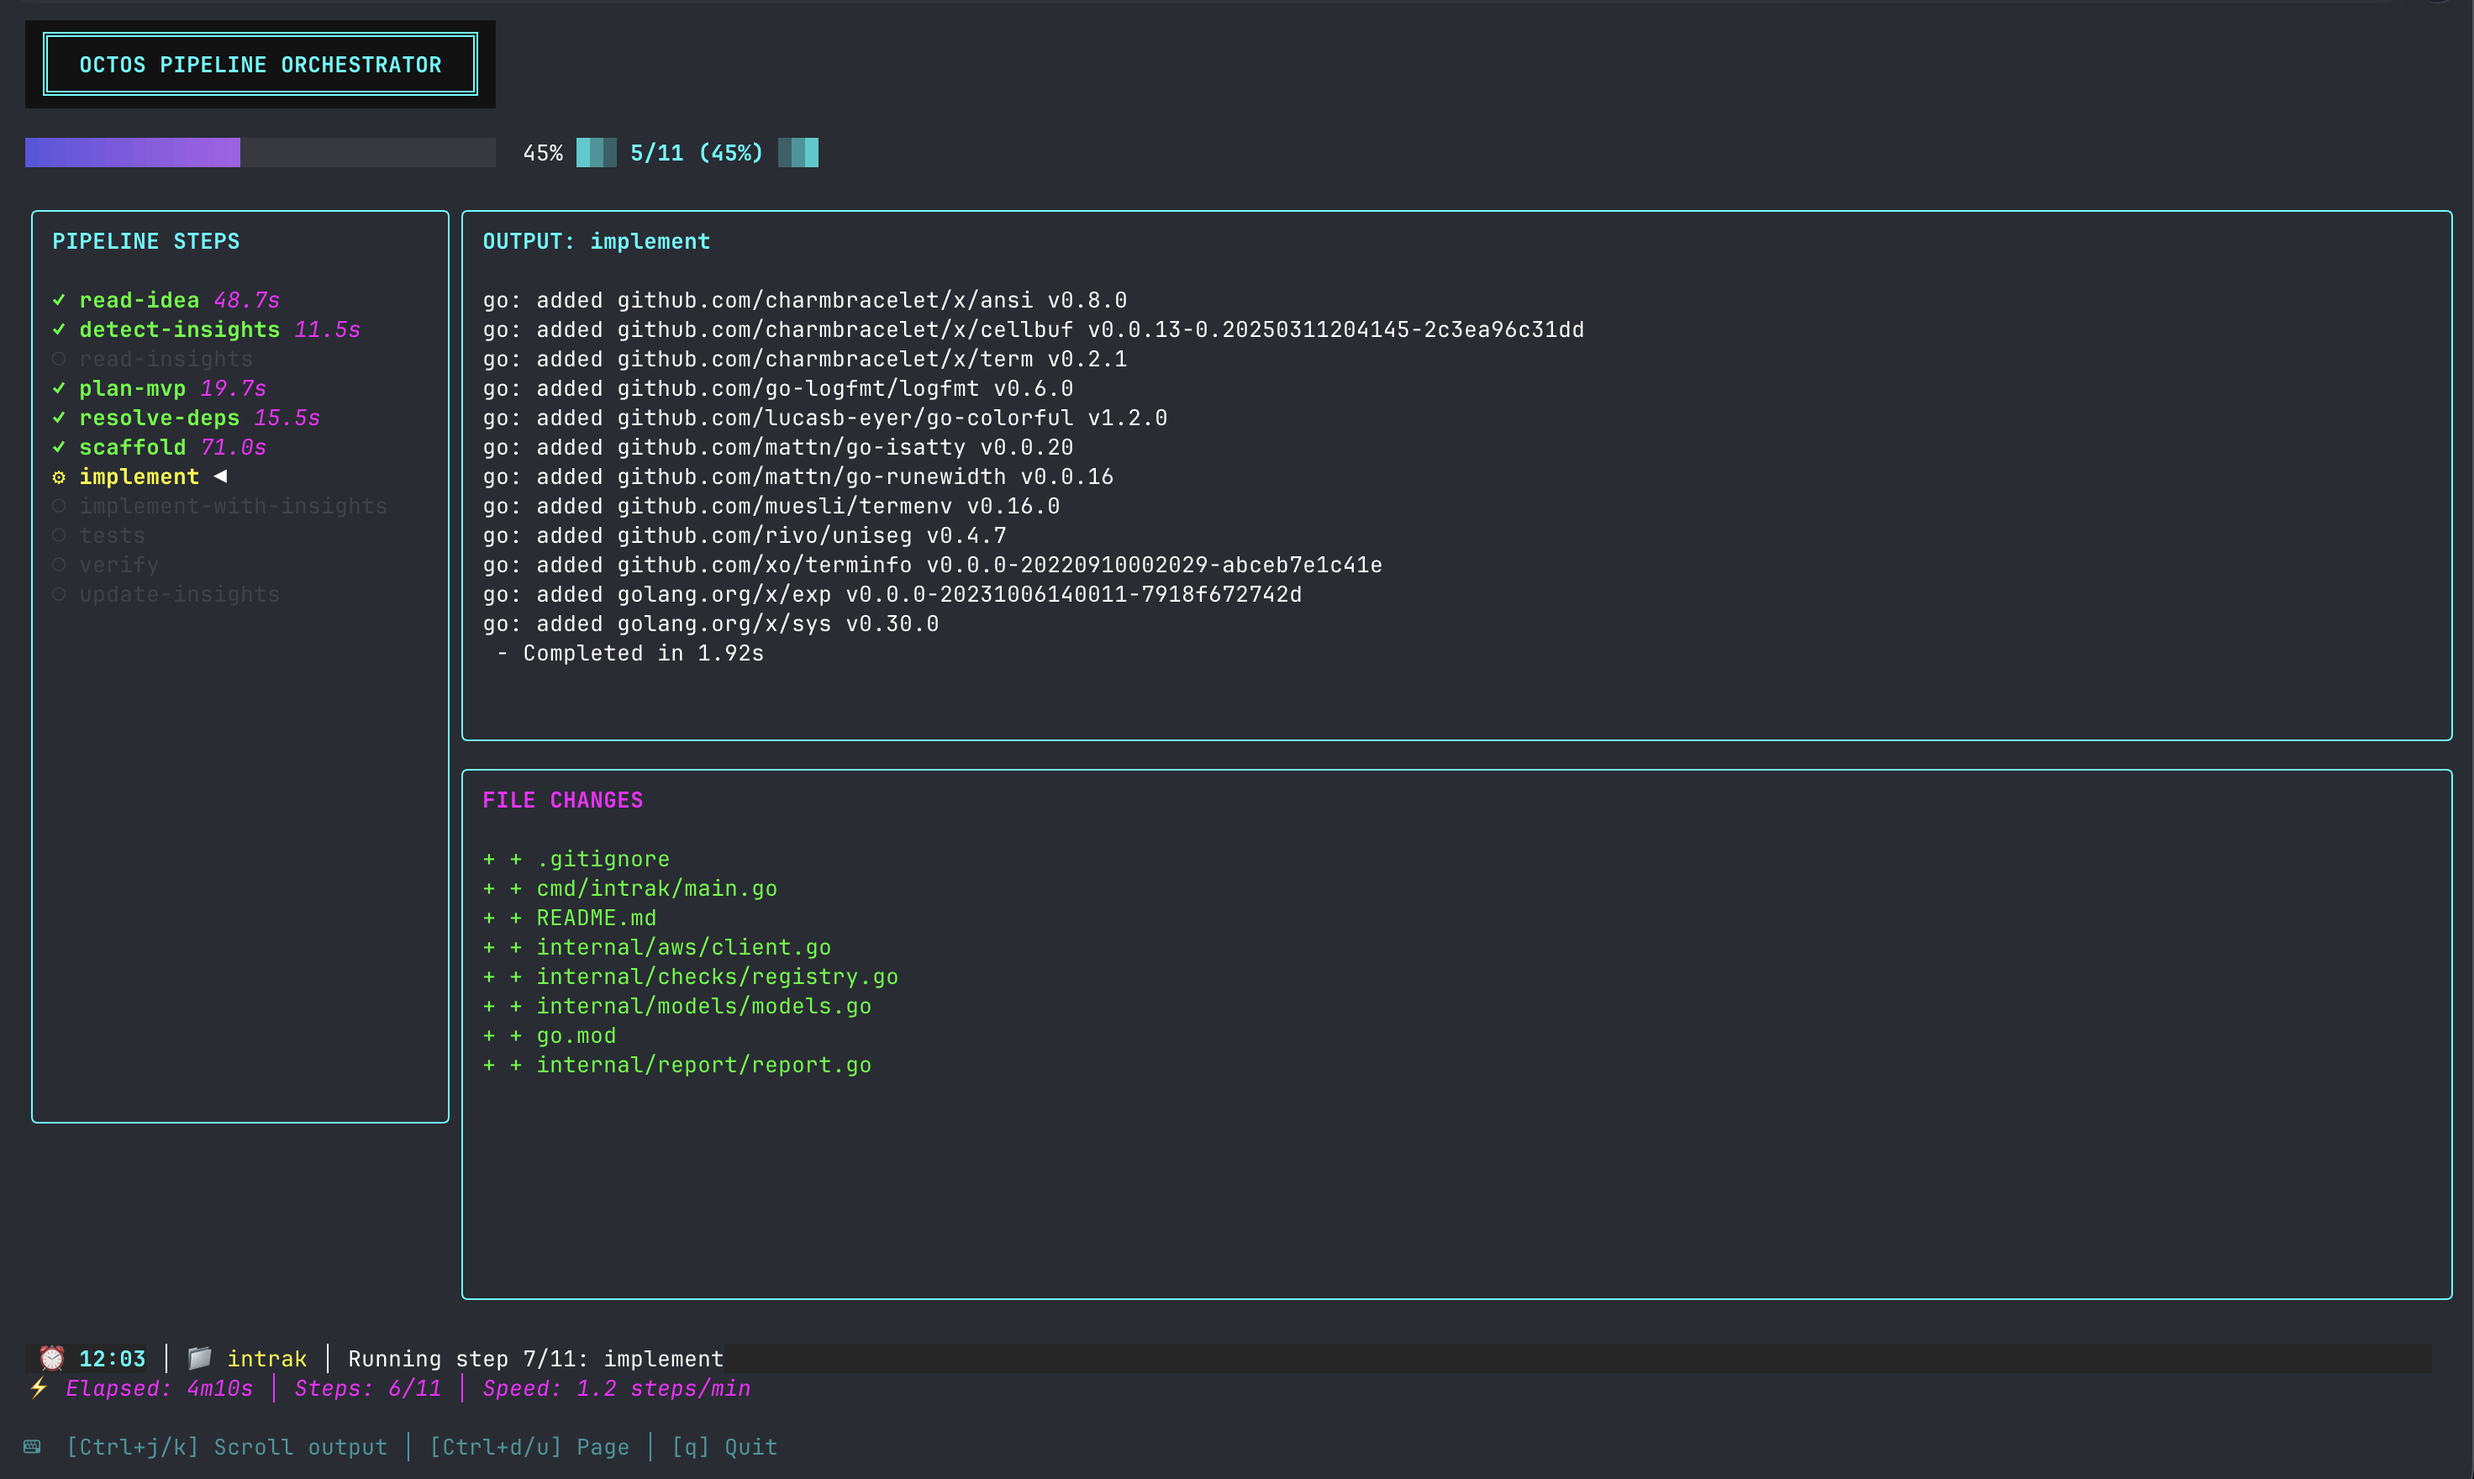
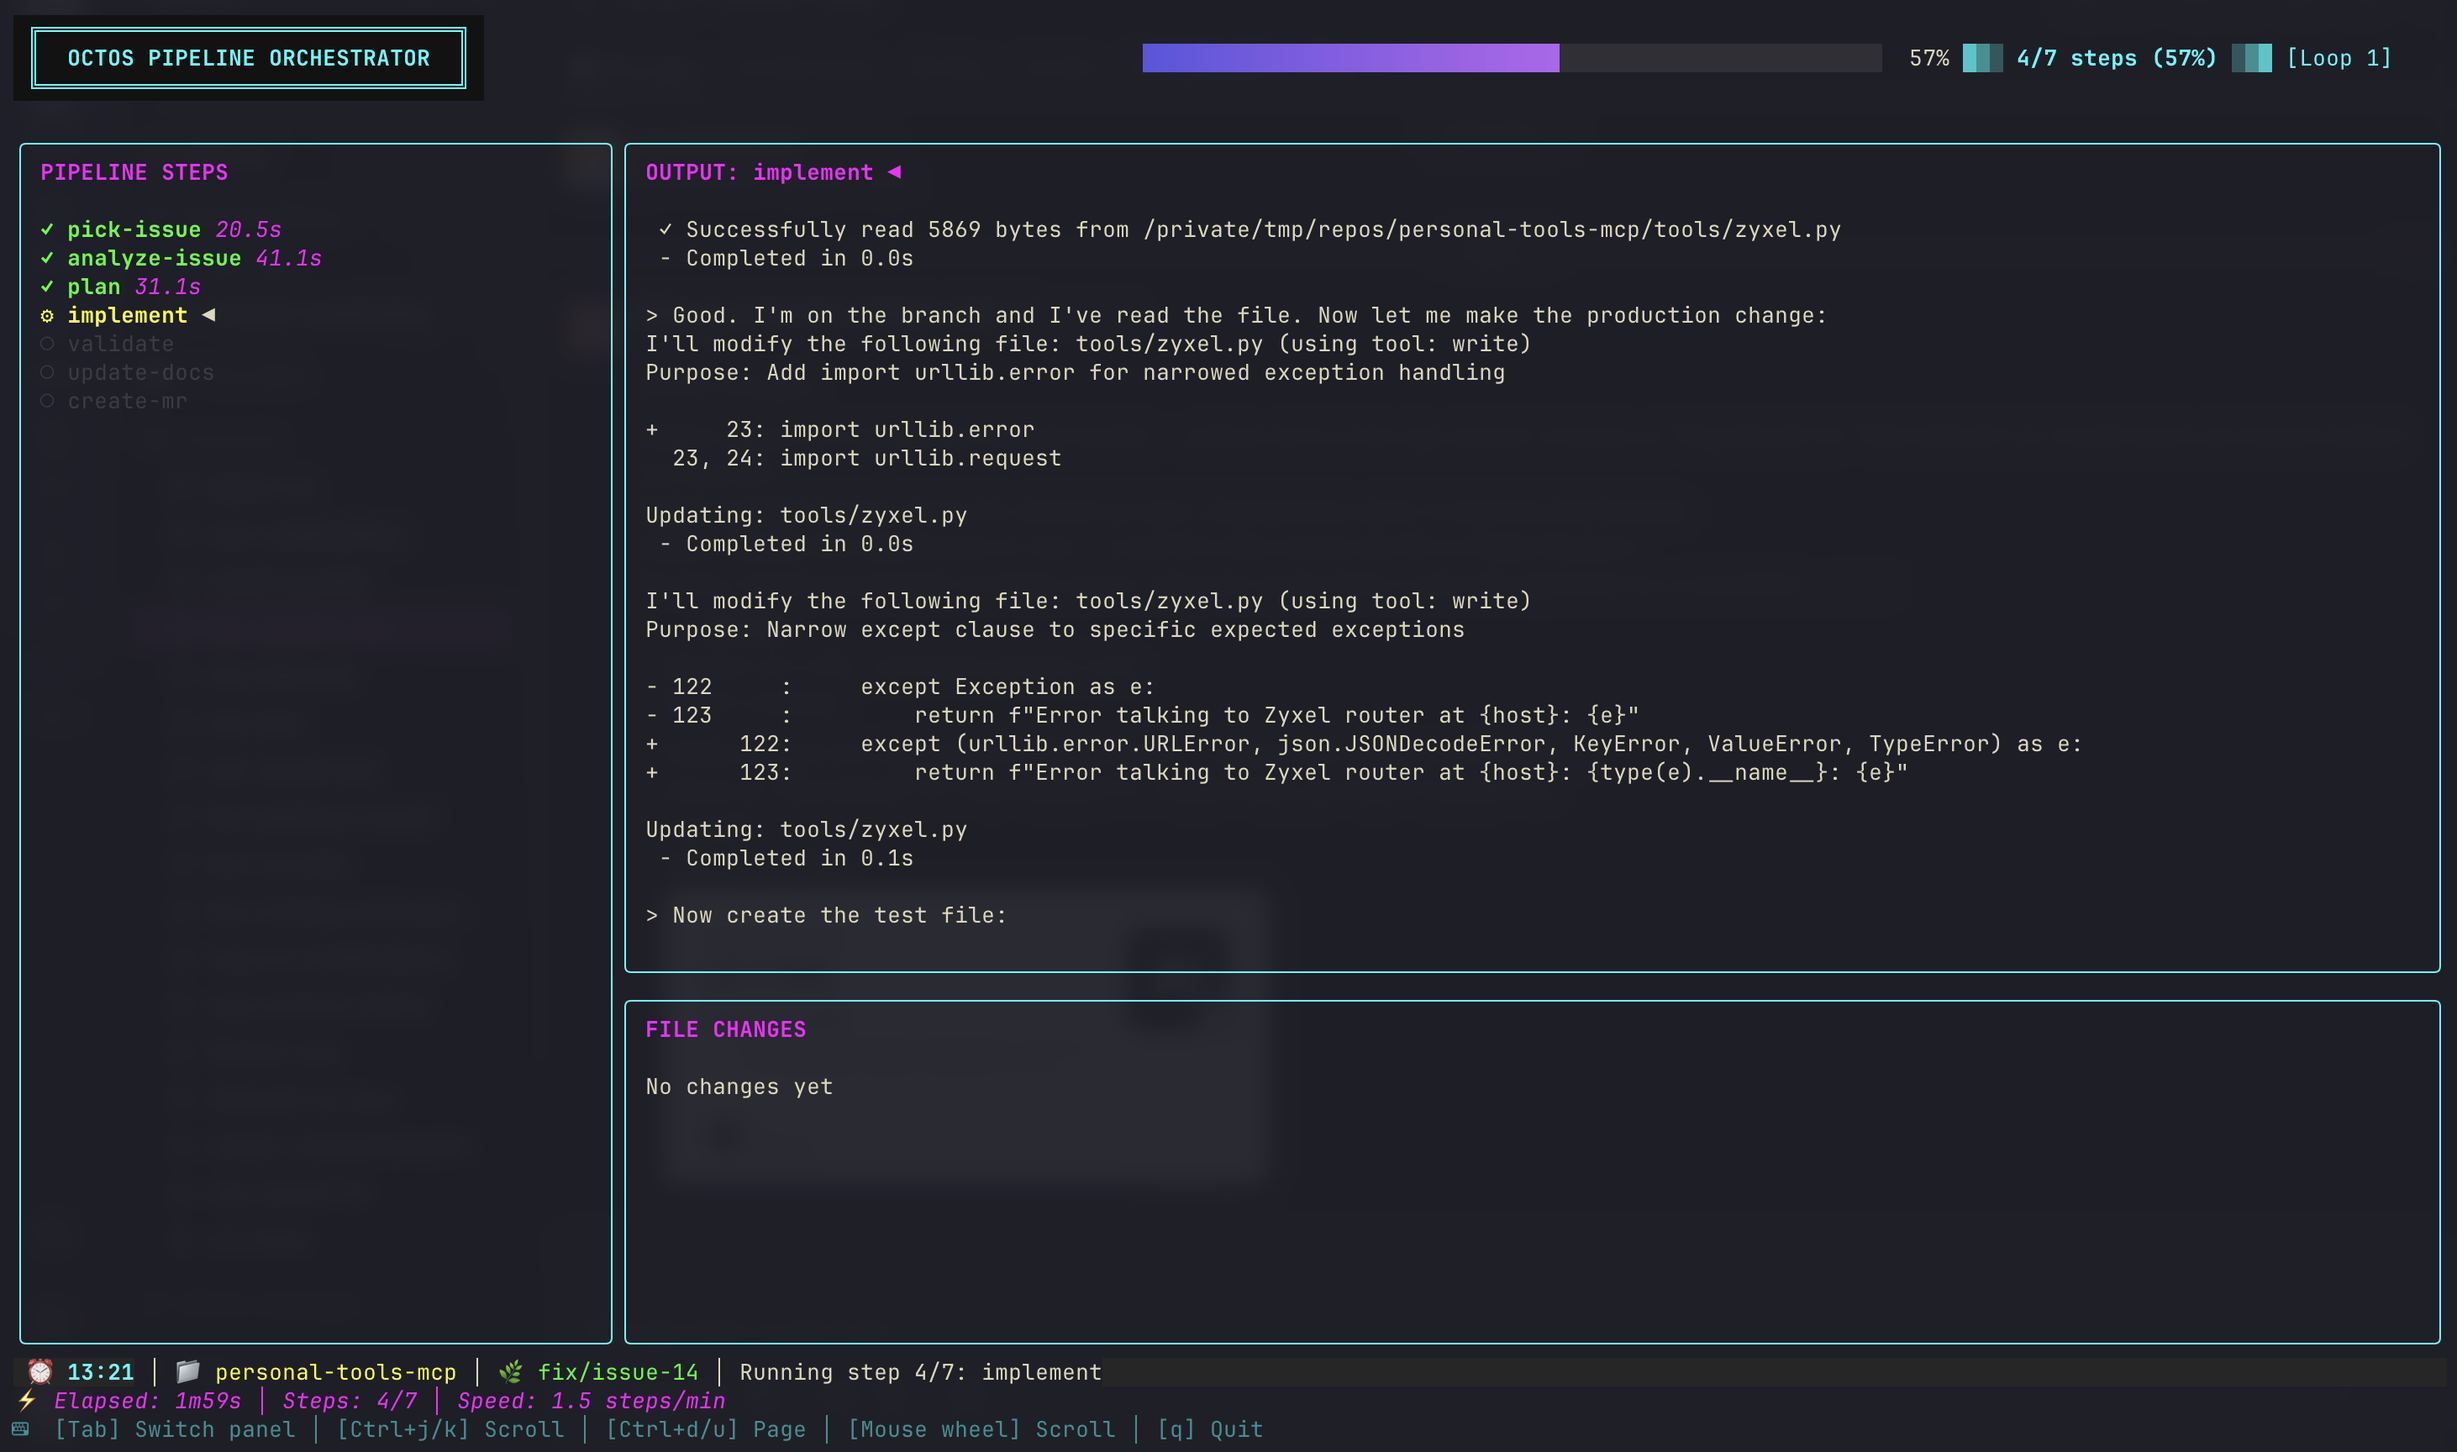
fix: resolve {{artifact.X}} and {{stepname}} placeholders directly
- interpolate() now resolves {{artifact.X}} without needing .output suffix
- {{stepname}} works as shorthand for {{stepname.output}}
- Fix narrow panel rendering for lipgloss v2 (Width is outer width)
- Update README: document shorthand syntax
- Update octos.png
- Bump v0.9.1

diff --git a/tui.go b/tui.go
@@ -809,10 +809,10 @@ func (m *TUIModel) isNarrowMode() bool {
 
 // renderNarrowView renders stacked layout for narrow terminals
 func (m *TUIModel) renderNarrowView() string {
-	const panelFrameV = 2 // border top + bottom
-	const panelFrameH = 4 // border left+right + padding left+right
-	
-	contentWidth := m.width
+	// In lipgloss v2, Width(W) is the TOTAL outer width (border+padding+text)
+	const frameTotal = 4 // border(2) + padding(2)
+	const borderV = 2
+
 	contentHeight := m.height
 
 	// Title (compact)
@@ -833,7 +833,6 @@ func (m *TUIModel) renderNarrowView() string {
 	progressText := fmt.Sprintf("%d/%d", completed, len(m.steps))
 	progressLine := progressBarStyle.Render(progressBar) + " " + progressText
 
-	// Calculate available height for panels
 	// Fixed: title(1) + progress(1) + help(1) = 3 lines
 	fixedHeight := 3
 	availableHeight := contentHeight - fixedHeight
@@ -841,40 +840,41 @@ func (m *TUIModel) renderNarrowView() string {
 		availableHeight = 10
 	}
 
-	// Steps panel (30% of available height, min 3)
-	stepsContentHeight := (availableHeight * 30) / 100 - panelFrameV
-	if stepsContentHeight < 3 {
-		stepsContentHeight = 3
+	// Panel outer = terminal width, text = width - frameTotal
+	panelOuter := m.width
+	textWidth := panelOuter - frameTotal
+	if textWidth < 10 {
+		textWidth = 10
 	}
-	
-	panelContentWidth := contentWidth - panelFrameH
-	if panelContentWidth < 10 {
-		panelContentWidth = 10
+
+	// Steps panel (30% of available height)
+	stepsOuter := (availableHeight * 30) / 100
+	if stepsOuter < 3 + borderV {
+		stepsOuter = 3 + borderV
 	}
-	
-	m.stepsView.SetWidth(panelContentWidth)
-	m.stepsView.SetHeight(stepsContentHeight)
+	stepsTextHeight := stepsOuter - borderV
+
+	m.stepsView.SetWidth(textWidth)
+	m.stepsView.SetHeight(stepsTextHeight)
 	m.stepsView.SetContent(m.buildStepsView(false, false))
-	stepsPanel := panelStyle.Width(panelContentWidth).Height(stepsContentHeight).Render(m.stepsView.View())
+	stepsPanel := panelStyle.Width(panelOuter).Render(m.stepsView.View())
+	stepsPanel = fixedHeightContent(stepsPanel, stepsOuter)
 
 	// Output panel (remaining height)
-	stepsOuterHeight := stepsContentHeight + panelFrameV
-	outputContentHeight := availableHeight - stepsOuterHeight - panelFrameV
-	if outputContentHeight < 5 {
-		outputContentHeight = 5
+	outputOuter := availableHeight - stepsOuter
+	if outputOuter < 5 + borderV {
+		outputOuter = 5 + borderV
 	}
-	
-	// Viewport height = panel content - title line
-	outputViewportHeight := outputContentHeight - 1 // "TITLE\n" = 1 line overhead
-	if outputViewportHeight < 3 {
-		outputViewportHeight = 3
+	outputTextHeight := outputOuter - borderV - 1 // -1 for title line
+	if outputTextHeight < 3 {
+		outputTextHeight = 3
 	}
-	
-	m.outputView.SetWidth(panelContentWidth)
-	m.outputView.SetHeight(outputViewportHeight)
-	
+
+	m.outputView.SetWidth(textWidth)
+	m.outputView.SetHeight(outputTextHeight)
+	m.outputView.SoftWrap = true
+
 	displayStep := m.getDisplayStep()
-	
 	currentStepName := "Waiting..."
 	outputContent := "Pipeline starting..."
 	if displayStep < len(m.steps) {
@@ -884,14 +884,14 @@ func (m *TUIModel) renderNarrowView() string {
 		}
 	}
 	m.outputView.SetContent(outputContent)
-	
+
 	outputTitle := fmt.Sprintf("OUT: %s", currentStepName)
 	if m.focusedPanel == FocusOutput {
 		outputTitle += " ◀"
 	}
-	outputPanel := panelStyle.Width(panelContentWidth).Height(outputContentHeight).Render(
-		PanelTitleStyle().Render(outputTitle) + "\n" + m.outputView.View(),
-	)
+	outputPanel := panelStyle.Width(panelOuter).Render(
+		PanelTitleStyle().Render(outputTitle) + "\n" + m.outputView.View())
+	outputPanel = fixedHeightContent(outputPanel, outputOuter)
 
 	// Help (compact)
 	help := "[Tab] Switch │ [j/k] Scroll │ [q] Quit"
@@ -906,15 +906,6 @@ func (m *TUIModel) renderNarrowView() string {
 	)
 
 	return content
-}
-
-// calculateStepsWidth returns the width for the steps panel based on terminal width
-func (m *TUIModel) calculateStepsWidth(contentWidth int) int {
-	stepsWidth := (contentWidth * StepsWidthPct) / 100
-	if stepsWidth < MinStepsWidth {
-		stepsWidth = MinStepsWidth
-	}
-	return stepsWidth
 }
 
 // fixedHeightContent truncates or pads content to exactly `height` lines.
@@ -949,10 +940,9 @@ func (m *TUIModel) initPromptView() {
 		popupHeight = PopupMaxHeight
 	}
 	
-	wrappedPrompt := prompt
 	m.promptView = viewport.New(viewport.WithWidth(popupWidth-popupTextPadding), viewport.WithHeight(popupHeight-popupViewportOffset))
 	m.promptView.SoftWrap = true
-	m.promptView.SetContent(wrappedPrompt)
+	m.promptView.SetContent(prompt)
 }
 
 // restartPipeline resets the pipeline state and starts again

diff --git a/interpolate_test.go b/interpolate_test.go
@@ -68,3 +68,44 @@ func TestInterpolateNoWarningWhenResolved(t *testing.T) {
 		t.Errorf("expected no warnings returned, got %d: %v", len(warnings), warnings)
 	}
 }
+
+func TestInterpolateResolvesArtifacts(t *testing.T) {
+	ctx := &Context{
+		Global: map[string]any{},
+		Outputs: map[string]string{
+			"artifact.plan":     "the plan content",
+			"artifact.analysis": "the analysis content",
+			"step1":             "step1 output",
+		},
+	}
+
+	// {{artifact.plan}} should resolve directly
+	result, warnings := interpolate("Plan: {{artifact.plan}}", ctx)
+	if result != "Plan: the plan content" {
+		t.Errorf("artifact.plan: got %q, want %q", result, "Plan: the plan content")
+	}
+	if len(warnings) != 0 {
+		t.Errorf("expected no warnings, got %v", warnings)
+	}
+
+	// {{artifact.analysis}} should resolve directly
+	result, warnings = interpolate("Analysis: {{artifact.analysis}}", ctx)
+	if result != "Analysis: the analysis content" {
+		t.Errorf("artifact.analysis: got %q, want %q", result, "Analysis: the analysis content")
+	}
+	if len(warnings) != 0 {
+		t.Errorf("expected no warnings, got %v", warnings)
+	}
+
+	// {{step1.output}} still works
+	result, _ = interpolate("{{step1.output}}", ctx)
+	if result != "step1 output" {
+		t.Errorf("step1.output: got %q, want %q", result, "step1 output")
+	}
+
+	// {{step1}} also resolves directly (step name without .output)
+	result, _ = interpolate("{{step1}}", ctx)
+	if result != "step1 output" {
+		t.Errorf("direct step1: got %q, want %q", result, "step1 output")
+	}
+}

diff --git a/executor.go b/executor.go
@@ -322,8 +322,12 @@ func interpolate(text string, ctx *Context) (string, []string) {
 	var warnings []string
 
 	for name, output := range ctx.Outputs {
+		// {{step_name.output}} for step outputs
 		placeholder := fmt.Sprintf("{{%s.output}}", name)
 		result = strings.ReplaceAll(result, placeholder, output)
+		// {{artifact.X}} directly (when stored as ctx.Outputs["artifact.X"])
+		direct := fmt.Sprintf("{{%s}}", name)
+		result = strings.ReplaceAll(result, direct, output)
 	}
 
 	// Interpolate all context values

diff --git a/version.go b/version.go
@@ -1,3 +1,3 @@
 package main
 
-const Version = "0.9.0"
+const Version = "0.9.1"

diff --git a/README.md b/README.md
@@ -222,12 +222,13 @@ Reference data from previous steps and context in your prompts:
 
 ```yaml
 {{stepname.output}}           # Output from a previous step
+{{stepname}}                  # Shorthand for {{stepname.output}}
 {{context.role}}              # Global context values
 {{context.rules}}             # Lists rendered as "- item" lines
-{{artifact.filename}}         # Loaded artifact content
+{{artifact.filename}}         # Loaded artifact content (requires load_from)
 ```
 
-Each step only receives the global context and its own prompt. Previous step outputs are NOT automatically included — reference them explicitly with `{{stepname.output}}` or use artifacts.
+Each step only receives the global context and its own prompt. Previous step outputs are NOT automatically included — reference them explicitly with `{{stepname.output}}` (or `{{stepname}}`) or use artifacts.
 
 ### 🌐 Environment Variables
 
